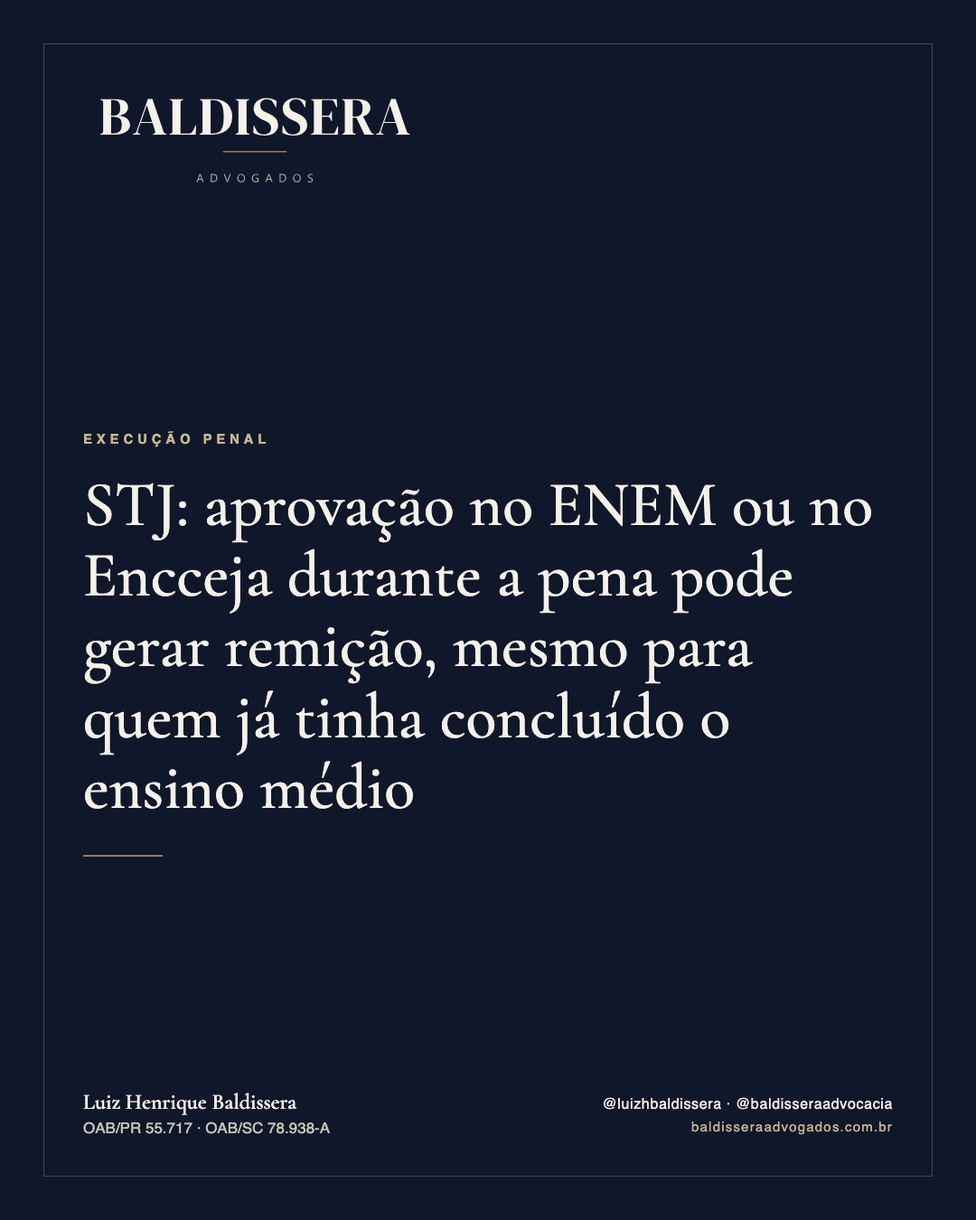
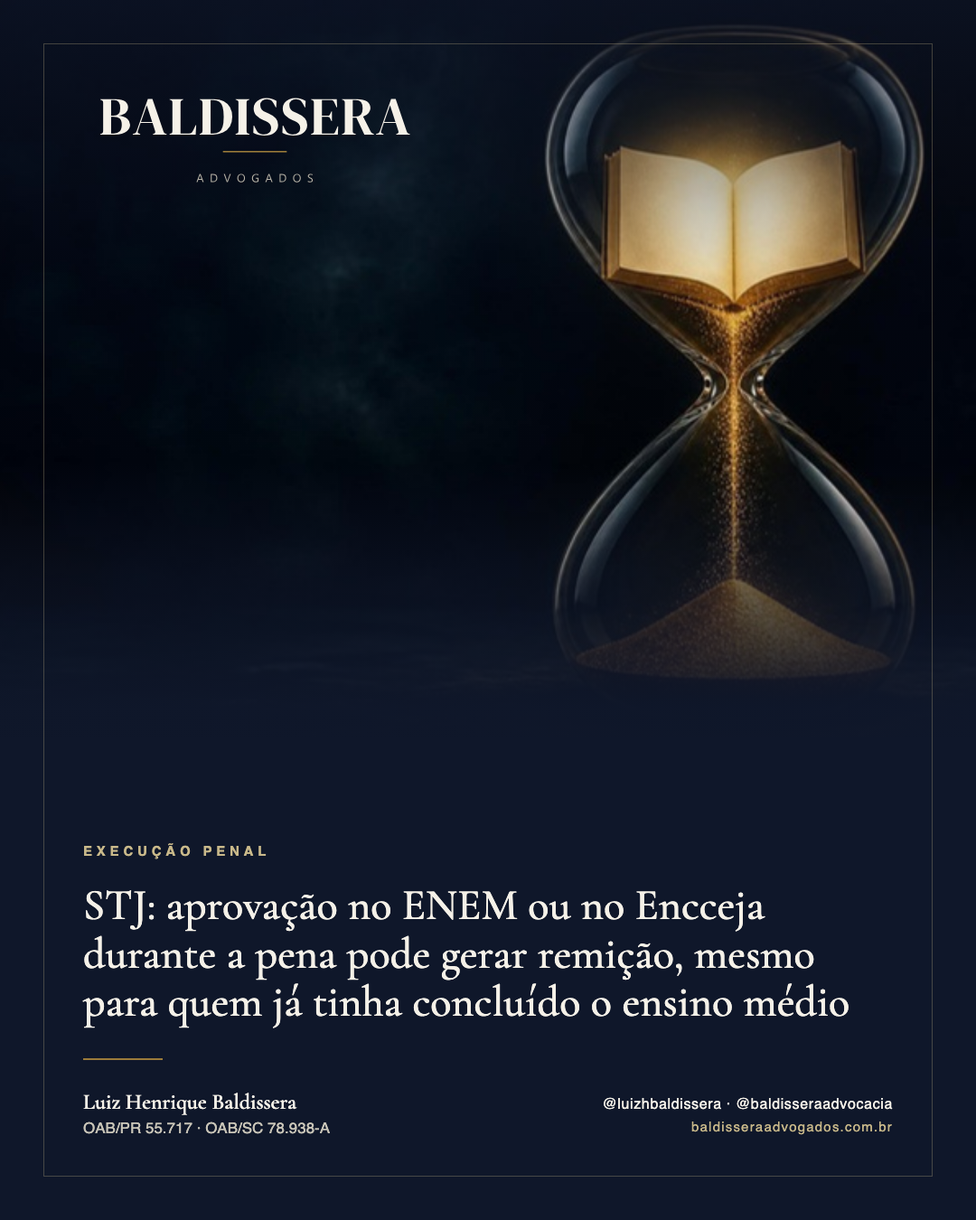
Lista da home sem imagem: a publicação do ENEM/Encceja ganha a ilustração (ampulheta com o livro), as três capas, a miniatura lateral, a capa ao lado do título e a miniatura nos cartões de publicacoes.html, da home e das páginas de área; trava no estilo para que item sem miniatura ocupe a linha inte

Changed region(s): [[0.0, 0.0311, 1.0, 0.84], [0.1833, 0.2178, 0.2444, 0.2489]]

diff --git a/site_baldissera_advogados/site_baldissera/public/execucao-penal-em-linguagem-simples.html b/site_baldissera_advogados/site_baldissera/public/execucao-penal-em-linguagem-simples.html
@@ -25,7 +25,7 @@
 <link rel="icon" type="image/svg+xml" href="favicon.svg">
 <link rel="icon" type="image/png" sizes="32x32" href="favicon-32x32.png">
 <link rel="apple-touch-icon" sizes="180x180" href="apple-touch-icon.png">
-<link rel="stylesheet" href="assets/css/liturgia.css?v=20261009g">
+<link rel="stylesheet" href="assets/css/liturgia.css?v=20261010a">
 <script type="application/ld+json">{"@context": "https://schema.org", "@type": "CollectionPage", "name": "Execução penal em linguagem simples", "url": "https://www.baldisseraadvogados.com.br/execucao-penal-em-linguagem-simples", "description": "Os julgados do STJ e do STF sobre o cumprimento da pena, sem juridiquês: a quem cada decisão pode alcançar, um exemplo em números, o que pode impedir o efeito, o documento que mostra e a tese oficial, para ler ou ouvir.", "inLanguage": "pt-BR", "isPartOf": {"@type": "WebSite", "name": "Baldissera Advogados", "url": "https://www.baldisseraadvogados.com.br"}, "breadcrumb": {"@type": "BreadcrumbList", "itemListElement": [{"@type": "ListItem", "position": 1, "name": "Áreas de atuação", "item": "https://www.baldisseraadvogados.com.br/areas-de-atuacao"}, {"@type": "ListItem", "position": 2, "name": "Execução Penal", "item": "https://www.baldisseraadvogados.com.br/area-execucao-penal"}, {"@type": "ListItem", "position": 3, "name": "Execução penal em linguagem simples", "item": "https://www.baldisseraadvogados.com.br/execucao-penal-em-linguagem-simples"}]}, "hasPart": [{"@type": "Article", "@id": "https://www.baldisseraadvogados.com.br/execucao-penal-em-linguagem-simples#tema-1155", "headline": "Quem ficou em casa à noite por ordem do juiz durante o processo pode ter esse tempo descontado da pena, com ou sem tornozeleira", "inLanguage": "pt-BR", "author": {"@type": "Person", "name": "Luiz Henrique Baldissera"}, "citation": "https://processo.stj.jus.br/repetitivos/temas_repetitivos/pesquisa.jsp?novaConsulta=true&tipo_pesquisa=T&cod_tema_inicial=1155&cod_tema_final=1155", "dateModified": "2026-10-09", "audio": {"@type": "AudioObject", "contentUrl": "https://www.baldisseraadvogados.com.br/assets/audio/execucao/tema-1155-narracao.mp3", "encodingFormat": "audio/mpeg", "transcript": "Este é um dos direitos de quem cumpre pena, explicado em linguagem simples. Quem, durante o processo, recebeu do juiz a ordem de ficar em casa à noite e nos dias de folga, e depois foi condenado, pode ter esse tempo descontado da pena. O desconto vale mesmo sem tornozeleira, porque fiscalizar era obrigação do Estado. Imagine um trabalhador de sobreaviso em casa, todas as noites, por ordem da empresa. No fim do mês, a empresa diz que só paga as horas de quem bateu o ponto no relógio eletrônico. Mas o relógio quem instala é a empresa, e ela não instalou. Quem ficou em casa porque mandaram ficou preso à ordem do mesmo jeito. Na execução penal, a empresa é o Estado, o sobreaviso é o recolhimento noturno, o relógio é a tornozeleira, e as horas devidas são os dias que saem da pena. Em números, num exemplo fictício: trezentas noites de dez horas são três mil horas. Em dias, cento e vinte e cinco. Esses dias saem do total da pena e podem antecipar a progressão e o livramento. O Superior Tribunal de Justiça decidiu isso em tema repetitivo, que obriga os demais juízes. O que pode impedir ou reduzir esse efeito: só conta o período em que a ordem esteve em vigor, e o Supremo ainda vai julgar a mesma questão; até lá, vale a regra do STJ. As condições e os limites estão no texto. O documento que mostra é o atestado de pena.", "duration": "PT74S"}}, {"@type": "Article", "@id": "https://www.baldisseraadvogados.com.br/execucao-penal-em-linguagem-simples#stf-tema-1454", "headline": "O STF vai decidir se o recolhimento domiciliar noturno desconta da pena; até lá, continua valendo a regra do STJ", "inLanguage": "pt-BR", "author": {"@type": "Person", "name": "Luiz Henrique Baldissera"}, "citation": "https://portal.stf.jus.br/jurisprudenciaRepercussao/tema.asp?num=1454", "dateModified": "2026-10-09", "audio": {"@type": "AudioObject", "contentUrl": "https://www.baldisseraadvogados.com.br/assets/audio/execucao/stf-tema-1454-narracao.mp3", "encodingFormat": "audio/mpeg", "transcript": "Este é um julgamento aguardado, explicado em linguagem simples. O Supremo Tribunal Federal vai decidir se o tempo em que a pessoa ficou recolhida em casa à noite, durante o processo, desconta da pena. Imagine uma conta de luz que a distribuidora já recalculou a favor do consumidor, e a agência reguladora anuncia que vai reexaminar o critério. Enquanto a agência não decide, o recálculo continua valendo, e quem tem a conta na mão pode pedir o acerto agora. Na execução penal, o recálculo já feito é a decisão do Superior Tribunal de Justiça, a agência é o Supremo, e a conta na mão é o atestado de pena. Até o julgamento, a tese do STJ vale para os juízes, e o pedido de desconto pode ser feito hoje. O que pode mudar: o Supremo poderá reconhecer, afastar ou delimitar esse direito, e uma decisão cautelar ou de suspensão também pode alterar a situação. Ainda não há data. As condições e os limites estão no texto. O documento que mostra é o atestado de pena.", "duration": "PT53S"}}, {"@type": "Article", "@id": "https://www.baldisseraadvogados.com.br/execucao-penal-em-linguagem-simples#tema-1165", "headline": "Quem já cumpria os requisitos antes da decisão pode ter a próxima progressão contada da data do direito", "inLanguage": "pt-BR", "author": {"@type": "Person", "name": "Luiz Henrique Baldissera"}, "citation": "https://processo.stj.jus.br/repetitivos/temas_repetitivos/pesquisa.jsp?novaConsulta=true&num_processo_classe=1972187&sg_classe=REsp&tipo_pesquisa=T", "dateModified": "2026-10-09", "audio": {"@type": "AudioObject", "contentUrl": "https://www.baldisseraadvogados.com.br/assets/audio/execucao/tema-1165-narracao.mp3", "encodingFormat": "audio/mpeg", "transcript": "Este é um dos direitos de quem cumpre pena, explicado em linguagem simples. Às vezes, a decisão de progressão sai depois do dia em que a pessoa já cumpria os requisitos. Nesse caso, a próxima progressão pode ser contada da data do direito. Não da data da decisão. Imagine um funcionário que completa o tempo e a boa avaliação para subir de nível. O setor de pessoal só assina a promoção meses depois. A assinatura não criou o direito. Reconheceu o que já tinha acontecido. Por isso, o tempo para a promoção seguinte conta do dia em que ele completou os requisitos. Na execução penal, a assinatura é a decisão do juiz. A promoção representa a progressão. Num exemplo fictício, os requisitos foram cumpridos em março, e a decisão veio em setembro. Contado de março, o requisito de tempo seguinte se completa seis meses antes. A próxima progressão depende também dos demais requisitos. O Superior Tribunal de Justiça decidiu isso em tema repetitivo, que obriga os demais juízes. O que pode impedir ou reduzir esse efeito? Há limites. Se o último requisito cumprido foi o de comportamento, vale a data dele. E a falta grave reinicia a contagem. As condições e os limites estão no texto. O documento que mostra é o atestado de pena.", "duration": "PT70S"}}, {"@type": "Article", "@id": "https://www.baldisseraadvogados.com.br/execucao-penal-em-linguagem-simples#tema-1006", "headline": "Quem recebe nova condenação durante a pena pode manter contado o tempo já cumprido para os próximos benefícios", "inLanguage": "pt-BR", "author": {"@type": "Person", "name": "Luiz Henrique Baldissera"}, "citation": "https://processo.stj.jus.br/repetitivos/temas_repetitivos/pesquisa.jsp?cod_tema_final=1006&cod_tema_inicial=1006&novaConsulta=true&tipo_pesquisa=T", "dateModified": "2026-10-09", "audio": {"@type": "AudioObject", "contentUrl": "https://www.baldisseraadvogados.com.br/assets/audio/execucao/tema-1006-narracao.mp3", "encodingFormat": "audio/mpeg", "transcript": "Este é um dos direitos de quem cumpre pena, explicado em linguagem simples. Quem recebe outra condenação durante a execução pode preservar a contagem para os próximos benefícios. A soma aumenta a pena total. Mas não zera, por si só, a contagem. Imagine alguém pagando um carnê. No meio do pagamento, a loja lança na mesma conta outra compra que tinha ficado de fora. O carnê fica mais longo. Mas as parcelas pagas continuam pagas. A conta não recomeça do zero. Na execução penal, a compra acrescentada é a nova condenação. As parcelas pagas são o tempo de pena já cumprido. Num exemplo fictício, a contagem começou em janeiro de dois mil e vinte e quatro. A nova condenação chegou um ano depois. Esse ano continua contado. O Superior Tribunal de Justiça decidiu isso em tema repetitivo, que obriga os demais juízes. O que pode impedir ou reduzir esse efeito? Crime doloso cometido durante a execução é falta grave. Reconhecida a falta, a contagem para a progressão reinicia na data do fato. Mas a mesma falta não reinicia duas vezes. E o tempo que falta pode aumentar com a nova pena. As condições e os limites estão no texto. O documento que mostra é o atestado de pena.", "duration": "PT68S"}}, {"@type": "Article", "@id": "https://www.baldisseraadvogados.com.br/execucao-penal-em-linguagem-simples#tema-1354", "headline": "Quem reúne mais de uma condenação pode ter a progressão calculada pela regra mais favorável a cada uma", "inLanguage": "pt-BR", "author": {"@type": "Person", "name": "Luiz Henrique Baldissera"}, "citation": "https://processo.stj.jus.br/repetitivos/temas_repetitivos/pesquisa.jsp?cod_tema_final=1354&cod_tema_inicial=1354&novaConsulta=true&tipo_pesquisa=T", "dateModified": "2026-10-09", "audio": {"@type": "AudioObject", "contentUrl": "https://www.baldisseraadvogados.com.br/assets/audio/execucao/tema-1354-narracao.mp3", "encodingFormat": "audio/mpeg", "transcript": "Este é um dos direitos de quem cumpre pena, explicado em linguagem simples. Quem reúne mais de uma condenação pode ter a progressão calculada pela regra mais favorável a cada uma. Isso vale quando a lei mudou as frações de progressão. Imagine uma família que paga, na mesma fatura, parcelas de dois contratos. Uma lei muda os juros. Para um contrato ficou mais caro, para o outro mais barato. Contrato antigo não paga o aumento, mas aproveita a redução. Juntar tudo na mesma fatura não muda isso. Na execução penal, cada contrato é uma condenação, e os juros são a fração exigida para progredir. Num exemplo fictício, comparadas as regras uma a uma, o tempo exigido é de quarenta e oito meses. Com uma regra só para tudo, seria mais. O Superior Tribunal de Justiça decidiu isso em tema repetitivo, que obriga os demais juízes. O que pode impedir ou reduzir esse efeito? Há um precedente contrário. Em outro julgamento, o Supremo aplicou fração única à execução com crimes violentos e não violentos. E, para o mesmo crime, a lei é uma só, por inteiro. As condições e os limites estão no texto. O documento que mostra é o atestado de pena.", "duration": "PT68S"}}, {"@type": "Article", "@id": "https://www.baldisseraadvogados.com.br/execucao-penal-em-linguagem-simples#tema-1374", "headline": "Mãe, gestante ou responsável condenada por associação para o tráfico pode progredir de regime com 1/8 da pena", "inLanguage": "pt-BR", "author": {"@type": "Person", "name": "Luiz Henrique Baldissera"}, "citation": "https://processo.stj.jus.br/repetitivos/temas_repetitivos/pesquisa.jsp?cod_tema_final=1374&cod_tema_inicial=1374&novaConsulta=true&tipo_pesquisa=T", "dateModified": "2026-10-09", "audio": {"@type": "AudioObject", "contentUrl": "https://www.baldisseraadvogados.com.br/assets/audio/execucao/tema-1374-narracao.mp3", "encodingFormat": "audio/mpeg", "transcript": "Este é um dos direitos de quem cumpre pena, explicado em linguagem simples. A regra alcança a mulher presa gestante, mãe ou responsável por criança ou pessoa com deficiência. Ela pode progredir após cumprir um oitavo da pena, se preencher os demais requisitos. Um deles é não ter integrado organização criminosa. Havia decisões que negavam o benefício pela condenação por associação para o tráfico. Imagine um condomínio que restringe vagas aos integrantes de uma comissão definida no regulamento. O síndico aplica a restrição também à associação de bairro. Na comparação, a comissão representa a organização criminosa definida em lei. A associação de bairro representa a associação para o tráfico. No exemplo fictício, o requisito de tempo difere em mais de dezessete meses. A progressão depende dos demais requisitos. O Superior Tribunal de Justiça decidiu isso em tema repetitivo, que obriga os demais juízes. O que pode impedir ou reduzir esse efeito? Os requisitos são cumulativos. Novo crime doloso ou falta grave revoga o benefício. As condições e os limites estão no texto. O documento que mostra é o atestado de pena.", "duration": "PT69S"}}, {"@type": "Article", "@id": "https://www.baldisseraadvogados.com.br/execucao-penal-em-linguagem-simples#stf-adis-7966-7969", "headline": "O STF vai decidir se a lei de 2026 que mudou as regras de progressão é válida; até 9/10, sem suspensão geral", "inLanguage": "pt-BR", "author": {"@type": "Person", "name": "Luiz Henrique Baldissera"}, "citation": "https://noticias.stf.jus.br/postsnoticias/stf-recebe-primeiras-acoes-contra-lei-da-dosimetria/", "dateModified": "2026-10-09", "audio": {"@type": "AudioObject", "contentUrl": "https://www.baldisseraadvogados.com.br/assets/audio/execucao/stf-adis-7966-7969-narracao.mp3", "encodingFormat": "audio/mpeg", "transcript": "Este é um julgamento aguardado, explicado em linguagem simples. Uma lei de dois mil e vinte e seis alterou regras de progressão e remição. O Supremo Tribunal Federal examina se ela respeita a Constituição. Imagine uma tabela de tarifas publicada pela prefeitura. Os autores de quatro ações pedem que o tribunal a declare inválida. O pedido, por si só, não suspende a tabela. O tribunal pode determinar uma suspensão. Até agora, o relator só afastou a tabela num grupo de contas que ele identificou. Na comparação, a tabela representa a lei nova. O grupo separado são execuções de condenados pelos atos de oito de janeiro, indicadas nas decisões do relator. Na consulta de nove de outubro, não havia suspensão geral da lei. Nos demais casos, a fração exige conferência em cada condenação. Importam a data do fato e eventual lei posterior mais favorável. O Supremo pode manter a lei ou invalidá-la, integralmente ou em parte. As condições e os limites estão no texto. O documento que mostra é o atestado de pena.", "duration": "PT58S"}}, {"@type": "Article", "@id": "https://www.baldisseraadvogados.com.br/execucao-penal-em-linguagem-simples#stj-sumulas-441-535", "headline": "Quem comete falta grave pode manter correndo o prazo do livramento condicional, do indulto e da comutação", "inLanguage": "pt-BR", "author": {"@type": "Person", "name": "Luiz Henrique Baldissera"}, "citation": "https://scon.stj.jus.br/SCON/sumstj/doc.jsp?b=SUMU&i=1&l=10&livre=%22441%22+INPATH%28NUM%29&operador=AND&ordenacao=-%40NUM&p=false", "dateModified": "2026-10-09", "audio": {"@type": "AudioObject", "contentUrl": "https://www.baldisseraadvogados.com.br/assets/audio/execucao/stj-sumulas-441-535-narracao.mp3", "encodingFormat": "audio/mpeg", "transcript": "Este é um dos direitos de quem cumpre pena, explicado em linguagem simples. Quem teve falta grave reconhecida pode manter correndo o prazo do livramento condicional. O mesmo vale, em regra, para o indulto e a comutação. Reconhecida a falta, a contagem para a progressão reinicia na data da infração. Imagine um funcionário que leva uma advertência. A regra da promoção manda zerar o tempo para subir de cargo. A regra da previdência complementar não manda zerar nada. A advertência pesa na promoção, mas não apaga os meses da previdência. Na execução penal, a advertência é a falta grave. A promoção é a progressão. A previdência representa o livramento, o indulto e a comutação. Num exemplo fictício, o tempo do livramento se completaria em janeiro. Uma falta em julho do ano anterior não zera esse tempo. O Superior Tribunal de Justiça tem súmulas nesse sentido. O que pode impedir ou reduzir esse efeito? Quando aplicável essa regra, falta grave nos últimos doze meses impede o livramento. O comportamento também é avaliado durante toda a execução. E o decreto de indulto pode trazer regra própria. As condições e os limites estão no texto. O documento que mostra é o atestado de pena.", "duration": "PT70S"}}, {"@type": "Article", "@id": "https://www.baldisseraadvogados.com.br/execucao-penal-em-linguagem-simples#lep-art-127", "headline": "Quem perde dias remidos por falta grave pode perder no máximo um terço, em fração justificada pelo juiz", "inLanguage": "pt-BR", "author": {"@type": "Person", "name": "Luiz Henrique Baldissera"}, "citation": "https://www.stj.jus.br/websecstj/cgi/revista/REJ.cgi/ITA?CodOrgaoJgdr=&SeqCgrmaSessao=&dt=20140502&formato=PDF&nreg=201303776954&salvar=false&seq=1314916&tipo=0", "dateModified": "2026-10-09", "audio": {"@type": "AudioObject", "contentUrl": "https://www.baldisseraadvogados.com.br/assets/audio/execucao/lep-art-127-narracao.mp3", "encodingFormat": "audio/mpeg", "transcript": "Este é um dos direitos de quem cumpre pena, explicado em linguagem simples. Quem tem dias de pena descontados por trabalho, estudo ou leitura pode perder parte deles por falta grave. Mas pode perder no máximo um terço. E a fração precisa ser justificada pelo juiz. Imagine o programa de pontos de um supermercado. O regulamento permite cancelar parte dos pontos quando o cliente descumpre as regras. Mas existe um limite. O gerente não pode zerar o saldo. Nem cortar sempre o máximo sem dizer por quê. Na execução penal, os pontos são os dias remidos, e o gerente é o juiz. Num exemplo fictício, há cento e vinte dias remidos. A perda máxima é de quarenta. Restam pelo menos oitenta. A lei limita a perda. A Sexta Turma do Superior Tribunal de Justiça decidiu que o máximo exige justificativa concreta. O que pode impedir ou reduzir esse efeito? Com motivação concreta, o máximo pode ser mantido. E sem falta reconhecida, com direito de defesa, não há perda. As condições e os limites estão no texto. O documento que mostra é o atestado de pena.", "duration": "PT62S"}}, {"@type": "Article", "@id": "https://www.baldisseraadvogados.com.br/execucao-penal-em-linguagem-simples#stf-sv-56", "headline": "Quem progrediu e não encontra vaga no regime devido não pode ser mantido, por isso, em regime mais grave", "inLanguage": "pt-BR", "author": {"@type": "Person", "name": "Luiz Henrique Baldissera"}, "citation": "https://jurisprudencia.stf.jus.br/pages/search/seq-sumula815/false", "dateModified": "2026-10-09", "audio": {"@type": "AudioObject", "contentUrl": "https://www.baldisseraadvogados.com.br/assets/audio/execucao/stf-sv-56-narracao.mp3", "encodingFormat": "audio/mpeg", "transcript": "Este é um dos direitos de quem cumpre pena, explicado em linguagem simples. Às vezes, quem progrediu de regime não encontra vaga no regime devido. Nesse caso, não pode ser mantido, por isso, em regime mais grave. Imagine um passageiro que deve viajar sentado. A empresa informa que não há assento. Isso não autoriza impor uma viagem em pé. É a empresa que precisa reorganizar o embarque. Na execução penal, a viagem sentada é o regime fixado pelo juiz. A viagem em pé é o regime mais grave. Num exemplo fictício, a progressão saiu em março, e a vaga só apareceu em setembro. Foram cerca de seis meses em regime mais grave que o fixado. O Supremo Tribunal Federal editou súmula vinculante sobre isso. Ela obriga juízes e administração. O que pode impedir ou reduzir esse efeito? A falta de vaga não leva automaticamente à prisão domiciliar. Antes, devem ser observadas as soluções que o Supremo definiu. Enquanto essas medidas não estiverem estruturadas, o juiz pode deferir a domiciliar. As condições e os limites estão no texto. O documento que mostra é a decisão de progressão.", "duration": "PT61S"}}]}</script>
 <script defer src="/_vercel/insights/script.js"></script>
 </head>
@@ -298,7 +298,7 @@ HC 282.265/RS, ementa, item 3: Caracteriza coação ilegal a decretação da per
     <ul class="pub-grade">
 <!-- PUBLICACOES-AREA-INICIO -->
 <li><a href="publicacao-detracao-de-quem-ja-cumpria-pena.html"><img src="assets/images/publicacoes/publicacao-detracao-de-quem-ja-cumpria-pena-lateral.jpg" alt="" width="800" height="800" loading="lazy" decoding="async"><span class="pub-data">Outubro de 2026</span><span class="pub-titulo">STJ: quem já cumpria pena pode descontar o tempo de preventiva de outro processo que terminou em absolvição</span></a></li>
-<li><a href="publicacao-enem-e-encceja-podem-gerar-remicao-da-pena.html"><span class="pub-data">Outubro de 2026</span><span class="pub-titulo">STJ: aprovação no ENEM ou no Encceja durante a pena pode gerar remição, mesmo para quem já tinha concluído o ensino médio</span></a></li>
+<li><a href="publicacao-enem-e-encceja-podem-gerar-remicao-da-pena.html"><img src="assets/images/publicacoes/publicacao-enem-e-encceja-podem-gerar-remicao-da-pena-lateral.jpg" alt="" width="800" height="800" loading="lazy" decoding="async"><span class="pub-data">Outubro de 2026</span><span class="pub-titulo">STJ: aprovação no ENEM ou no Encceja durante a pena pode gerar remição, mesmo para quem já tinha concluído o ensino médio</span></a></li>
 <li><a href="publicacao-recolhimento-noturno-desconta-da-pena.html"><img src="assets/images/publicacoes/publicacao-recolhimento-noturno-desconta-da-pena-lateral.jpg" alt="" width="800" height="800" loading="lazy" decoding="async"><span class="pub-data">Outubro de 2026</span><span class="pub-titulo">STJ: as noites de recolhimento em casa durante o processo descontam da pena, com ou sem tornozeleira</span></a></li>
 <li><a href="publicacao-tema-1354-e-a-progressao-por-condenacao.html"><img src="assets/images/publicacoes/publicacao-tema-1354-e-a-progressao-por-condenacao-lateral.jpg" alt="" width="800" height="800" loading="lazy" decoding="async"><span class="pub-data">Outubro de 2026</span><span class="pub-titulo">STJ: com mais de uma condenação, a progressão é calculada pena por pena, e o tempo para progredir pode cair</span></a></li>
 <li><a href="publicacao-tema-1374-e-a-progressao-especial.html"><img src="assets/images/publicacoes/publicacao-tema-1374-e-a-progressao-especial-lateral.jpg" alt="" width="800" height="800" loading="lazy" decoding="async"><span class="pub-data">Outubro de 2026</span><span class="pub-titulo">STJ: mãe ou gestante condenada por associação para o tráfico pode progredir de regime com 1/8 da pena</span></a></li>
@@ -377,7 +377,7 @@ HC 282.265/RS, ementa, item 3: Caracteriza coação ilegal a decretação da per
 </footer>
 
 <button class="voltar-topo" type="button" hidden>Voltar ao topo</button>
-<script src="assets/js/site.js?v=20261009g"></script>
+<script src="assets/js/site.js?v=20261010a"></script>
 <script>
 (function () {
   var botoes = document.querySelectorAll(".filtros .topico[data-filtro]"), secoes = document.querySelectorAll(".ex-materia[data-materia]");

diff --git a/site_baldissera_advogados/site_baldissera/public/execucao-penal-revisao-por-fases.html b/site_baldissera_advogados/site_baldissera/public/execucao-penal-revisao-por-fases.html
@@ -25,7 +25,7 @@
 <link rel="icon" type="image/svg+xml" href="favicon.svg">
 <link rel="icon" type="image/png" sizes="32x32" href="favicon-32x32.png">
 <link rel="apple-touch-icon" sizes="180x180" href="apple-touch-icon.png">
-<link rel="stylesheet" href="assets/css/liturgia.css?v=20261009g">
+<link rel="stylesheet" href="assets/css/liturgia.css?v=20261010a">
 <script type="application/ld+json">{"@context": "https://schema.org", "@type": "FAQPage", "mainEntity": [{"@type": "Question", "name": "A revisão sempre encontra erro?", "acceptedAnswer": {"@type": "Answer", "text": "Não. Há execuções corretamente calculadas, e não é possível antecipar o resultado antes de examinar os autos. A revisão pode concluir que o cálculo está correto."}}, {"@type": "Question", "name": "Quem constitui o advogado na execução?", "acceptedAnswer": {"@type": "Answer", "text": "O próprio condenado, em regra por procuração."}}, {"@type": "Question", "name": "O que a família pode conferir por conta própria?", "acceptedAnswer": {"@type": "Answer", "text": "Os cinco pontos do atestado de pena indicados no início desta página, comparados com os documentos disponíveis. Uma diferença encontrada é um ponto a examinar nos autos, não uma conclusão; o tempo cumprido não garante, sozinho, o benefício."}}, {"@type": "Question", "name": "Todas as fases são necessárias?", "acceptedAnswer": {"@type": "Answer", "text": "Não. O diagnóstico indica, com o motivo, quais análises adicionais são pertinentes. Pode concluir que nenhuma outra é necessária."}}, {"@type": "Question", "name": "O advogado que já atua na execução pode solicitar a revisão?", "acceptedAnswer": {"@type": "Answer", "text": "Sim. A revisão pode apoiar a defesa constituída, sem substituí-la na condução do processo. O acompanhamento documental também pode ser realizado em conjunto, com prévio conhecimento do advogado e definição das atribuições de cada profissional."}}, {"@type": "Question", "name": "Um erro antigo ainda pode ser apontado?", "acceptedAnswer": {"@type": "Answer", "text": "Sim. O cálculo de pena acompanha toda a execução e é revisto a cada incidente: erro demonstrado pode ser levado ao juízo da execução enquanto houver pena a cumprir e, diante de constrangimento ilegal à liberdade de locomoção, pode caber habeas corpus, conforme a situação e os limites dessa via. A via adequada depende do caso."}}, {"@type": "Question", "name": "E se a revisão encontrar erro que hoje beneficia o condenado?", "acceptedAnswer": {"@type": "Answer", "text": "Ele é registrado em seção própria do relatório, com a análise de seus riscos, para que a defesa conheça toda a situação da execução."}}]}</script>
 <script defer src="/_vercel/insights/script.js"></script>
 </head>
@@ -728,7 +728,7 @@
     <ul class="pub-grade">
 <!-- PUBLICACOES-AREA-INICIO -->
 <li><a href="publicacao-detracao-de-quem-ja-cumpria-pena.html"><img src="assets/images/publicacoes/publicacao-detracao-de-quem-ja-cumpria-pena-lateral.jpg" alt="" width="800" height="800" loading="lazy" decoding="async"><span class="pub-data">Outubro de 2026</span><span class="pub-titulo">STJ: quem já cumpria pena pode descontar o tempo de preventiva de outro processo que terminou em absolvição</span></a></li>
-<li><a href="publicacao-enem-e-encceja-podem-gerar-remicao-da-pena.html"><span class="pub-data">Outubro de 2026</span><span class="pub-titulo">STJ: aprovação no ENEM ou no Encceja durante a pena pode gerar remição, mesmo para quem já tinha concluído o ensino médio</span></a></li>
+<li><a href="publicacao-enem-e-encceja-podem-gerar-remicao-da-pena.html"><img src="assets/images/publicacoes/publicacao-enem-e-encceja-podem-gerar-remicao-da-pena-lateral.jpg" alt="" width="800" height="800" loading="lazy" decoding="async"><span class="pub-data">Outubro de 2026</span><span class="pub-titulo">STJ: aprovação no ENEM ou no Encceja durante a pena pode gerar remição, mesmo para quem já tinha concluído o ensino médio</span></a></li>
 <li><a href="publicacao-recolhimento-noturno-desconta-da-pena.html"><img src="assets/images/publicacoes/publicacao-recolhimento-noturno-desconta-da-pena-lateral.jpg" alt="" width="800" height="800" loading="lazy" decoding="async"><span class="pub-data">Outubro de 2026</span><span class="pub-titulo">STJ: as noites de recolhimento em casa durante o processo descontam da pena, com ou sem tornozeleira</span></a></li>
 <li><a href="publicacao-tema-1354-e-a-progressao-por-condenacao.html"><img src="assets/images/publicacoes/publicacao-tema-1354-e-a-progressao-por-condenacao-lateral.jpg" alt="" width="800" height="800" loading="lazy" decoding="async"><span class="pub-data">Outubro de 2026</span><span class="pub-titulo">STJ: com mais de uma condenação, a progressão é calculada pena por pena, e o tempo para progredir pode cair</span></a></li>
 <li><a href="publicacao-tema-1374-e-a-progressao-especial.html"><img src="assets/images/publicacoes/publicacao-tema-1374-e-a-progressao-especial-lateral.jpg" alt="" width="800" height="800" loading="lazy" decoding="async"><span class="pub-data">Outubro de 2026</span><span class="pub-titulo">STJ: mãe ou gestante condenada por associação para o tráfico pode progredir de regime com 1/8 da pena</span></a></li>
@@ -812,6 +812,6 @@
 </footer>
 
 <button class="voltar-topo" type="button" hidden>Voltar ao topo</button>
-<script src="assets/js/site.js?v=20261009g"></script>
+<script src="assets/js/site.js?v=20261010a"></script>
 </body>
 </html>

diff --git a/site_baldissera_advogados/site_baldissera/public/area-execucao-penal.html b/site_baldissera_advogados/site_baldissera/public/area-execucao-penal.html
@@ -25,7 +25,7 @@
 <link rel="icon" type="image/svg+xml" href="favicon.svg">
 <link rel="icon" type="image/png" sizes="32x32" href="favicon-32x32.png">
 <link rel="apple-touch-icon" sizes="180x180" href="apple-touch-icon.png">
-<link rel="stylesheet" href="assets/css/liturgia.css?v=20261009g">
+<link rel="stylesheet" href="assets/css/liturgia.css?v=20261010a">
 <script defer src="/_vercel/insights/script.js"></script>
 </head>
 <body>
@@ -137,7 +137,7 @@
     <ul class="pub-grade">
 <!-- PUBLICACOES-AREA-INICIO -->
 <li><a href="publicacao-detracao-de-quem-ja-cumpria-pena.html"><img src="assets/images/publicacoes/publicacao-detracao-de-quem-ja-cumpria-pena-lateral.jpg" alt="" width="800" height="800" loading="lazy" decoding="async"><span class="pub-data">Outubro de 2026</span><span class="pub-titulo">STJ: quem já cumpria pena pode descontar o tempo de preventiva de outro processo que terminou em absolvição</span></a></li>
-<li><a href="publicacao-enem-e-encceja-podem-gerar-remicao-da-pena.html"><span class="pub-data">Outubro de 2026</span><span class="pub-titulo">STJ: aprovação no ENEM ou no Encceja durante a pena pode gerar remição, mesmo para quem já tinha concluído o ensino médio</span></a></li>
+<li><a href="publicacao-enem-e-encceja-podem-gerar-remicao-da-pena.html"><img src="assets/images/publicacoes/publicacao-enem-e-encceja-podem-gerar-remicao-da-pena-lateral.jpg" alt="" width="800" height="800" loading="lazy" decoding="async"><span class="pub-data">Outubro de 2026</span><span class="pub-titulo">STJ: aprovação no ENEM ou no Encceja durante a pena pode gerar remição, mesmo para quem já tinha concluído o ensino médio</span></a></li>
 <li><a href="publicacao-recolhimento-noturno-desconta-da-pena.html"><img src="assets/images/publicacoes/publicacao-recolhimento-noturno-desconta-da-pena-lateral.jpg" alt="" width="800" height="800" loading="lazy" decoding="async"><span class="pub-data">Outubro de 2026</span><span class="pub-titulo">STJ: as noites de recolhimento em casa durante o processo descontam da pena, com ou sem tornozeleira</span></a></li>
 <li><a href="publicacao-tema-1354-e-a-progressao-por-condenacao.html"><img src="assets/images/publicacoes/publicacao-tema-1354-e-a-progressao-por-condenacao-lateral.jpg" alt="" width="800" height="800" loading="lazy" decoding="async"><span class="pub-data">Outubro de 2026</span><span class="pub-titulo">STJ: com mais de uma condenação, a progressão é calculada pena por pena, e o tempo para progredir pode cair</span></a></li>
 <li><a href="publicacao-tema-1374-e-a-progressao-especial.html"><img src="assets/images/publicacoes/publicacao-tema-1374-e-a-progressao-especial-lateral.jpg" alt="" width="800" height="800" loading="lazy" decoding="async"><span class="pub-data">Outubro de 2026</span><span class="pub-titulo">STJ: mãe ou gestante condenada por associação para o tráfico pode progredir de regime com 1/8 da pena</span></a></li>
@@ -307,6 +307,6 @@
 </footer>
 
 <button class="voltar-topo" type="button" hidden>Voltar ao topo</button>
-<script src="assets/js/site.js?v=20261009g"></script>
+<script src="assets/js/site.js?v=20261010a"></script>
 </body>
 </html>

diff --git a/site_baldissera_advogados/site_baldissera/public/area-recursos-tribunais-superiores.html b/site_baldissera_advogados/site_baldissera/public/area-recursos-tribunais-superiores.html
@@ -25,7 +25,7 @@
 <link rel="icon" type="image/svg+xml" href="favicon.svg">
 <link rel="icon" type="image/png" sizes="32x32" href="favicon-32x32.png">
 <link rel="apple-touch-icon" sizes="180x180" href="apple-touch-icon.png">
-<link rel="stylesheet" href="assets/css/liturgia.css?v=20261009g">
+<link rel="stylesheet" href="assets/css/liturgia.css?v=20261010a">
 <script defer src="/_vercel/insights/script.js"></script>
 </head>
 <body>
@@ -117,7 +117,7 @@
     <ul class="pub-grade">
 <!-- PUBLICACOES-AREA-INICIO -->
 <li><a href="publicacao-detracao-de-quem-ja-cumpria-pena.html"><img src="assets/images/publicacoes/publicacao-detracao-de-quem-ja-cumpria-pena-lateral.jpg" alt="" width="800" height="800" loading="lazy" decoding="async"><span class="pub-data">Outubro de 2026</span><span class="pub-titulo">STJ: quem já cumpria pena pode descontar o tempo de preventiva de outro processo que terminou em absolvição</span></a></li>
-<li><a href="publicacao-enem-e-encceja-podem-gerar-remicao-da-pena.html"><span class="pub-data">Outubro de 2026</span><span class="pub-titulo">STJ: aprovação no ENEM ou no Encceja durante a pena pode gerar remição, mesmo para quem já tinha concluído o ensino médio</span></a></li>
+<li><a href="publicacao-enem-e-encceja-podem-gerar-remicao-da-pena.html"><img src="assets/images/publicacoes/publicacao-enem-e-encceja-podem-gerar-remicao-da-pena-lateral.jpg" alt="" width="800" height="800" loading="lazy" decoding="async"><span class="pub-data">Outubro de 2026</span><span class="pub-titulo">STJ: aprovação no ENEM ou no Encceja durante a pena pode gerar remição, mesmo para quem já tinha concluído o ensino médio</span></a></li>
 <li><a href="publicacao-recolhimento-noturno-desconta-da-pena.html"><img src="assets/images/publicacoes/publicacao-recolhimento-noturno-desconta-da-pena-lateral.jpg" alt="" width="800" height="800" loading="lazy" decoding="async"><span class="pub-data">Outubro de 2026</span><span class="pub-titulo">STJ: as noites de recolhimento em casa durante o processo descontam da pena, com ou sem tornozeleira</span></a></li>
 <li><a href="publicacao-tema-1262-pouca-droga-e-pena-base.html"><img src="assets/images/publicacoes/publicacao-tema-1262-pouca-droga-e-pena-base-lateral.jpg" alt="" width="800" height="800" loading="lazy" decoding="async"><span class="pub-data">Outubro de 2026</span><span class="pub-titulo">STJ: pouca droga não justifica pena-base maior, seja qual for a substância</span></a></li>
 <li><a href="publicacao-tema-1354-e-a-progressao-por-condenacao.html"><img src="assets/images/publicacoes/publicacao-tema-1354-e-a-progressao-por-condenacao-lateral.jpg" alt="" width="800" height="800" loading="lazy" decoding="async"><span class="pub-data">Outubro de 2026</span><span class="pub-titulo">STJ: com mais de uma condenação, a progressão é calculada pena por pena, e o tempo para progredir pode cair</span></a></li>
@@ -273,6 +273,6 @@
 </footer>
 
 <button class="voltar-topo" type="button" hidden>Voltar ao topo</button>
-<script src="assets/js/site.js?v=20261009g"></script>
+<script src="assets/js/site.js?v=20261010a"></script>
 </body>
 </html>

diff --git a/site_baldissera_advogados/site_baldissera/public/index.html b/site_baldissera_advogados/site_baldissera/public/index.html
@@ -25,7 +25,7 @@
 <link rel="icon" type="image/svg+xml" href="favicon.svg">
 <link rel="icon" type="image/png" sizes="32x32" href="favicon-32x32.png">
 <link rel="apple-touch-icon" sizes="180x180" href="apple-touch-icon.png">
-<link rel="stylesheet" href="assets/css/liturgia.css?v=20261009g">
+<link rel="stylesheet" href="assets/css/liturgia.css?v=20261010a">
 <script type="application/ld+json">
 {
   "@context": "https://schema.org",
@@ -219,7 +219,7 @@
 <p>Quem já cumpria pena e ficou também preso preventivamente em outro processo, depois absolvido, pode ter esse tempo descontado da pena. Em outubro de 2025, no AgRg no HC 1.002.152/SP, o STJ afastou o argumento de que essa prisão não teve impacto e mandou o juízo da execução reexaminar o pedido. A condição é que o crime da condenação seja anterior à prisão preventiva.</p>
 </article>
 <ul class="manchete-lista">
-<li><a href="publicacao-enem-e-encceja-podem-gerar-remicao-da-pena.html"><span><span class="pub-data">Execução Penal, outubro de 2026</span><span class="lista-titulo">STJ: aprovação no ENEM ou no Encceja durante a pena pode gerar remição, mesmo para quem já tinha concluído o ensino médio</span></span></a></li>
+<li><a href="publicacao-enem-e-encceja-podem-gerar-remicao-da-pena.html"><img src="assets/images/publicacoes/publicacao-enem-e-encceja-podem-gerar-remicao-da-pena-lateral.jpg" alt="" width="800" height="800" loading="lazy" decoding="async"><span><span class="pub-data">Execução Penal, outubro de 2026</span><span class="lista-titulo">STJ: aprovação no ENEM ou no Encceja durante a pena pode gerar remição, mesmo para quem já tinha concluído o ensino médio</span></span></a></li>
 <li><a href="publicacao-recolhimento-noturno-desconta-da-pena.html"><img src="assets/images/publicacoes/publicacao-recolhimento-noturno-desconta-da-pena-lateral.jpg" alt="" width="800" height="800" loading="lazy" decoding="async"><span><span class="pub-data">Execução Penal, outubro de 2026</span><span class="lista-titulo">STJ: as noites de recolhimento em casa durante o processo descontam da pena, com ou sem tornozeleira</span></span></a></li>
 <li><a href="publicacao-tema-1262-pouca-droga-e-pena-base.html"><img src="assets/images/publicacoes/publicacao-tema-1262-pouca-droga-e-pena-base-lateral.jpg" alt="" width="800" height="800" loading="lazy" decoding="async"><span><span class="pub-data">Direito Penal, outubro de 2026</span><span class="lista-titulo">STJ: pouca droga não justifica pena-base maior, seja qual for a substância</span></span></a></li>
 </ul>
@@ -407,6 +407,6 @@
 </footer>
 
 <button class="voltar-topo" type="button" hidden>Voltar ao topo</button>
-<script src="assets/js/site.js?v=20261009g"></script>
+<script src="assets/js/site.js?v=20261010a"></script>
 </body>
 </html>

diff --git a/site_baldissera_advogados/site_baldissera/public/publicacao-enem-e-encceja-podem-gerar-remicao-da-pena.html b/site_baldissera_advogados/site_baldissera/public/publicacao-enem-e-encceja-podem-gerar-remicao-da-pena.html
@@ -27,7 +27,7 @@
 <link rel="icon" type="image/svg+xml" href="favicon.svg">
 <link rel="icon" type="image/png" sizes="32x32" href="favicon-32x32.png">
 <link rel="apple-touch-icon" sizes="180x180" href="apple-touch-icon.png">
-<link rel="stylesheet" href="assets/css/liturgia.css?v=20261009g">
+<link rel="stylesheet" href="assets/css/liturgia.css?v=20261010a">
 <script type="application/ld+json">
 {
   "@context": "https://schema.org",
@@ -118,12 +118,13 @@
 <p class="trilha"><a href="publicacoes.html">Publicações</a> / <a href="area-execucao-penal.html">Execução Penal</a></p>
 
 <article>
-<header class="cabeca-pub sem-figura">
+<header class="cabeca-pub">
   <div>
     <p class="meta">Execução Penal, outubro de 2026</p>
     <h1>STJ: aprovação no ENEM ou no Encceja durante a pena pode gerar remição, mesmo para quem já tinha concluído o ensino médio</h1>
     <p class="autoria">Por <a href="perfil-luiz.html">Luiz Henrique Baldissera</a>, Advogado criminalista · OAB/PR 55.717 · OAB/SC 78.938-A. Leitura de 4 minutos.</p>
   </div>
+  <figure><img src="assets/images/publicacoes/publicacao-enem-e-encceja-podem-gerar-remicao-da-pena-lateral.jpg" alt="Capa da publicação: Ampulheta de vidro em fundo marinho; no bulbo superior, um livro aberto de páginas em branco se desfaz em areia dourada." width="800" height="800" fetchpriority="high" decoding="async"></figure>
 </header>
 
 <p class="ementa"><span class="rotulo">Ementa</span>No Tema 1.357, o STJ decidiu que a escolaridade anterior à prisão, por si só, não impede a remição pela aprovação no ENEM ou no Encceja obtida durante a pena. A repetição do mesmo exame, no mesmo nível e nas mesmas áreas já aproveitadas para remição na mesma execução, não gera novo desconto.</p>
@@ -227,6 +228,6 @@
 </footer>
 
 <button class="voltar-topo" type="button" hidden>Voltar ao topo</button>
-<script src="assets/js/site.js?v=20261009g"></script>
+<script src="assets/js/site.js?v=20261010a"></script>
 </body>
 </html>

diff --git a/site_baldissera_advogados/site_baldissera/public/publicacoes.html b/site_baldissera_advogados/site_baldissera/public/publicacoes.html
@@ -25,7 +25,7 @@
 <link rel="icon" type="image/svg+xml" href="favicon.svg">
 <link rel="icon" type="image/png" sizes="32x32" href="favicon-32x32.png">
 <link rel="apple-touch-icon" sizes="180x180" href="apple-touch-icon.png">
-<link rel="stylesheet" href="assets/css/liturgia.css?v=20261009g">
+<link rel="stylesheet" href="assets/css/liturgia.css?v=20261010a">
 <script defer src="/_vercel/insights/script.js"></script>
 </head>
 <body>
@@ -107,6 +107,7 @@
 <span class="pub-autor">Luiz Henrique Baldissera</span>
 </a>
 <a href="publicacao-enem-e-encceja-podem-gerar-remicao-da-pena.html" class="pub-card" data-area="execucao-penal" data-superior="1" data-data="2026-10-09">
+<img class="pub-card-capa" src="assets/images/publicacoes/publicacao-enem-e-encceja-podem-gerar-remicao-da-pena-lateral.jpg" alt="" width="800" height="800" loading="lazy" decoding="async">
 <span class="pub-meta">Execução Penal, outubro de 2026</span>
 <h3>STJ: aprovação no ENEM ou no Encceja durante a pena pode gerar remição, mesmo para quem já tinha concluído o ensino médio</h3>
 <p class="pub-resumo">O STJ fixou, no Tema Repetitivo 1.357, que a aprovação no ENEM ou no Encceja durante a pena pode gerar remição mesmo para quem já havia concluído o ensino médio antes da prisão. O acréscimo de um terço, nesse caso, fica afastado, e a repetição do mesmo exame já aproveitado na mesma execução não gera novo desconto.</p>
@@ -366,7 +367,7 @@
 </footer>
 
 <button class="voltar-topo" type="button" hidden>Voltar ao topo</button>
-<script src="assets/js/site.js?v=20261009g"></script>
+<script src="assets/js/site.js?v=20261010a"></script>
 <script>
 (function () {
   var ORDEM = ["direito-penal", "tribunais-superiores", "execucao-penal", "imobiliario", "civil", "familia-e-sucessoes", "ambiental"];

diff --git a/site_baldissera_advogados/site_baldissera/public/agendar.html b/site_baldissera_advogados/site_baldissera/public/agendar.html
@@ -22,7 +22,7 @@
 <link rel="icon" type="image/svg+xml" href="favicon.svg">
 <link rel="icon" type="image/png" sizes="32x32" href="favicon-32x32.png">
 <link rel="apple-touch-icon" sizes="180x180" href="apple-touch-icon.png">
-<link rel="stylesheet" href="assets/css/liturgia.css?v=20261009g">
+<link rel="stylesheet" href="assets/css/liturgia.css?v=20261010a">
 <script defer src="/_vercel/insights/script.js"></script>
 </head>
 <body>
@@ -207,7 +207,7 @@
 </footer>
 
 <button class="voltar-topo" type="button" hidden>Voltar ao topo</button>
-<script src="assets/js/site.js?v=20261009g"></script>
+<script src="assets/js/site.js?v=20261010a"></script>
 <script>
   // Confirmação depois do envio (o formsubmit volta para ?enviado=1); unidade só no atendimento presencial
   (function () {

diff --git a/site_baldissera_advogados/site_baldissera/public/assets/css/liturgia.css b/site_baldissera_advogados/site_baldissera/public/assets/css/liturgia.css
@@ -139,6 +139,8 @@ html.contraste a { text-decoration-line: underline; }
 .manchete-lista img { width: 6.5rem; aspect-ratio: 1; object-fit: cover; border: 1px solid var(--linha); }
 .lista-titulo { display: block; font: 500 var(--t-3)/1.25 var(--titulo); margin-top: 0.2rem; }
 .manchete-lista a:hover .lista-titulo { text-decoration: underline; text-decoration-color: var(--ouro); }
+/* item sem miniatura: o texto ocupa a linha inteira, nunca a coluna da imagem (10/10/2026) */
+.manchete-lista a > span:only-child { grid-column: 1 / -1; }
 
 /* "Você sabia?": faixa escura de ponta a ponta */
 .voce-sabia { width: 100vw; margin-left: calc(50% - 50vw); background: var(--toga); color: #E7E1D2; }

diff --git a/site_baldissera_advogados/site_baldissera/public/404.html b/site_baldissera_advogados/site_baldissera/public/404.html
@@ -12,7 +12,7 @@
 <link rel="icon" type="image/svg+xml" href="/favicon.svg">
 <link rel="icon" type="image/png" sizes="32x32" href="/favicon-32x32.png">
 <link rel="apple-touch-icon" sizes="180x180" href="/apple-touch-icon.png">
-<link rel="stylesheet" href="/assets/css/liturgia.css?v=20261009g">
+<link rel="stylesheet" href="/assets/css/liturgia.css?v=20261010a">
 <script defer src="/_vercel/insights/script.js"></script>
 </head>
 <body>
@@ -115,6 +115,6 @@
 </footer>
 
 <button class="voltar-topo" type="button" hidden>Voltar ao topo</button>
-<script src="/assets/js/site.js?v=20261009g"></script>
+<script src="/assets/js/site.js?v=20261010a"></script>
 </body>
 </html>

diff --git a/site_baldissera_advogados/site_baldissera/public/contato.html b/site_baldissera_advogados/site_baldissera/public/contato.html
@@ -25,7 +25,7 @@
 <link rel="icon" type="image/svg+xml" href="favicon.svg">
 <link rel="icon" type="image/png" sizes="32x32" href="favicon-32x32.png">
 <link rel="apple-touch-icon" sizes="180x180" href="apple-touch-icon.png">
-<link rel="stylesheet" href="assets/css/liturgia.css?v=20261009g">
+<link rel="stylesheet" href="assets/css/liturgia.css?v=20261010a">
 <script type="application/ld+json">
 {
   "@context": "https://schema.org",
@@ -329,6 +329,6 @@
 </footer>
 
 <button class="voltar-topo" type="button" hidden>Voltar ao topo</button>
-<script src="assets/js/site.js?v=20261009g"></script>
+<script src="assets/js/site.js?v=20261010a"></script>
 </body>
 </html>

diff --git a/site_baldissera_advogados/site_baldissera/public/perfil-charys.html b/site_baldissera_advogados/site_baldissera/public/perfil-charys.html
@@ -25,7 +25,7 @@
 <link rel="icon" type="image/svg+xml" href="favicon.svg">
 <link rel="icon" type="image/png" sizes="32x32" href="favicon-32x32.png">
 <link rel="apple-touch-icon" sizes="180x180" href="apple-touch-icon.png">
-<link rel="stylesheet" href="assets/css/liturgia.css?v=20261009g">
+<link rel="stylesheet" href="assets/css/liturgia.css?v=20261010a">
 <script type="application/ld+json">
 {
   "@context": "https://schema.org",
@@ -218,6 +218,6 @@
 </footer>
 
 <button class="voltar-topo" type="button" hidden>Voltar ao topo</button>
-<script src="assets/js/site.js?v=20261009g"></script>
+<script src="assets/js/site.js?v=20261010a"></script>
 </body>
 </html>
